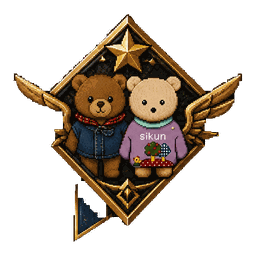
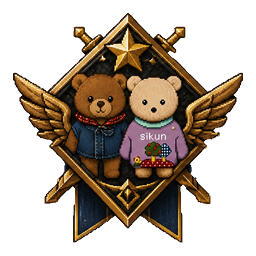
授業のまとめ後は確認テストへ誘導し、Tier1バッジの欠けを修正
- 授業画面でまとめが出たら「次へ」を消し、確認テストを最後に提示
- まとめ見出しの検出を緩め（## 本日のまとめ 等も完了扱い）、まとめ後も
  次へが押せてしまう不具合を解消。完了バナーも追加
- 伝説の間(Tier1)の sheetk3_04 バッジに混入していた隣の断片を除去し、
  trophy_k3 から正しく切り出し直し

Claude-Session: https://claude.ai/code/session_01UzGJNLrJPyCP6RhxjhtsyL

diff --git a/src/components/PracticeScreen.tsx b/src/components/PracticeScreen.tsx
@@ -340,7 +340,7 @@ How to run the lesson (strict):
 - At the end of each message, ask one short comprehension question to check understanding.
 - If the student asks a question, answer it kindly and thoroughly, then guide them back to the lesson.
 - When the student says "next", teach the next chunk that follows on from the previous one.
-- When you have covered everything, write "## Summary" with the key points as bullets and tell them the lesson is complete.
+- When you have covered everything, finish with a heading "## Summary" listing the key points as bullets and clearly tell them the lesson is complete. Once you have written this summary, do NOT teach any further "next" parts — the student will move on to a confirmation quiz.
 - If materials are attached, base the lesson on their content.${styleLineEn}${nameLine}${topicLine}`;
   }
   return `あなたは優秀で温かいマンツーマンの家庭教師「Lily」です。生徒と対話のキャッチボールをしながら授業を進めます。
@@ -353,7 +353,7 @@ How to run the lesson (strict):
 - 発言の最後に、理解度を確認する短い問いかけを1つ入れる。
 - 生徒が質問したら、その質問に丁寧に答えてから、授業に戻す。
 - 生徒が「次へ」と言ったら、前回の続きの次のまとまりを教える。
-- すべての内容を教え終えたら、「## まとめ」で要点を箇条書きにして、授業の終わりを伝える。
+- すべての内容を教え終えたら、最後に必ず見出し「## まとめ」を付けて要点を箇条書きにし、授業の終わりをはっきり伝える。まとめを出したあとは、もう「次へ」の続きは教えない（生徒には確認テストに進んでもらう）。
 - 資料が添付されている場合は、その内容に沿って授業を組み立てる。${styleLineJa}${nameLine}${topicLine}`;
 }
 
@@ -410,9 +410,12 @@ export default function PracticeScreen({ onGoBack, onOpenAI }: PracticeScreenPro
     return out;
   }, [lessonTurns]);
 
-  // Lesson is complete when any card contains Lily's summary heading.
+  // Lesson is complete once Lily writes her wrap-up. We accept any Markdown
+  // heading that contains "まとめ"/"Summary" (e.g. "## まとめ", "## 本日のまとめ",
+  // "### Lesson Summary") so a slightly differently-worded heading still ends
+  // the lesson instead of leaving the "次へ" button pressable forever.
   const isLessonComplete = useMemo(
-    () => lessonCards.some(c => /^##\s+(Summary|まとめ)/m.test(c.text)),
+    () => lessonCards.some(c => /^#{1,6}\s*.*(?:まとめ|Summary)/im.test(c.text)),
     [lessonCards],
   );
 
@@ -1346,6 +1349,16 @@ export default function PracticeScreen({ onGoBack, onOpenAI }: PracticeScreenPro
               ) : null}
             </div>
 
+            {/* Lesson wrap-up: once Lily has written her summary and we are on the
+                final card, the only way onward is the confirmation quiz. */}
+            {isLessonComplete && cardIdx === lessonCards.length - 1 && (
+              <div className="ps-lesson-done">
+                🎉 {en
+                  ? 'Lesson complete! Finish with a quick quiz to check what you learned.'
+                  : '授業はここまで！最後に確認テストで理解度をチェックしよう。'}
+              </div>
+            )}
+
             {/* Slide navigation */}
             <div className="ps-slide-nav">
               <button
@@ -2058,6 +2071,9 @@ function PracticeStyles() {
   .ps-class-typing span:nth-child(2) { animation-delay: 0.2s; }
   .ps-class-typing span:nth-child(3) { animation-delay: 0.4s; }
   @keyframes ps-typing { 0%, 60%, 100% { transform: translateY(0); opacity: 0.4; } 30% { transform: translateY(-4px); opacity: 1; } }
+
+  /* Lesson wrap-up banner */
+  .ps-lesson-done { margin: 0 14px; padding: 9px 14px; border-radius: 12px; font-size: 0.82rem; font-weight: 700; text-align: center; color: var(--foreground); background: linear-gradient(120deg, rgba(245,158,11,0.16), rgba(239,68,68,0.16)); border: 1.5px solid rgba(245,158,11,0.4); }
 
   /* Slide navigation */
   .ps-slide-nav { display: flex; gap: 8px; padding: 6px 14px 4px; flex-shrink: 0; }